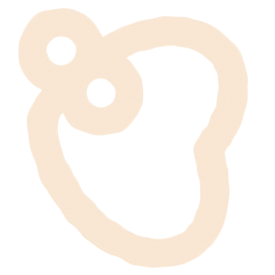
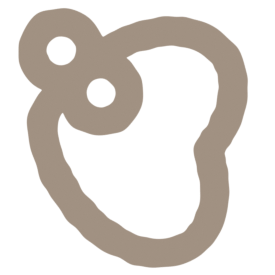
update site colors

diff --git a/scripts/aaa-style.css b/scripts/aaa-style.css
@@ -166,8 +166,8 @@ a:active {
         border-color: #a19182;
     }
     input:focus {
-        color: #a19182;
-        border-color: #a19182;
+        color: #37857f;
+        border-color: #37857f;
     }
     input:focus:invalid {
         color: #ed7c7c;
@@ -178,17 +178,17 @@ a:active {
         border-color: #cd5c5c;
     }
 
-    a, a:link, a:visited { color: #89c7cd; }
+    a, a:link, a:visited { color: #37857f; }
     a:hover, a:focus { color: #a19182; }
-    a:active { color: #89c7cd; }
+    a:active { color: #37857f; }
     #jump, #bott, #ttop {
         color: #a19182;
         background-color: #000000;
         border-color: #a19182;
     }
     #jump:focus, #bott:focus {
-        color: #89c7cd;
-        border-color: #89c7cd;
+        color: #37857f;
+        border-color: #37857f;
     }
 }
 
@@ -211,8 +211,8 @@ a:active {
 }
 @media (min-width: 662px) and (prefers-color-scheme: dark) {
     #jump:hover, #bott:hover, #ttop:hover {
-        color: #89c7cd;
-        border-color: #89c7cd;
+        color: #37857f;
+        border-color: #37857f;
     }
     #jump:active, #bott:active, #ttop:active {
         color: #a19182;

diff --git a/index.html b/index.html
@@ -1,4 +1,4 @@
-<!-- Copyright © 2021-2025, jurgfish. All rights reserved. -->
+<!-- Copyright © 2021-2026, jurgfish. All rights reserved. -->
 
 <!-- welcome to the other side <3 -->
 
@@ -25,7 +25,7 @@
             <img id="logo" src="vis/jurgfish.png" alt="jurgfish" width="55" height="55">
             <img id="logotxt" src="vis/jurgfishtxt.png" alt="<3" width="130" height="64">
             <p class="anim-queue" id="info">
-                creator of alka &amp; allias,
+                creator of island of mind,
                 an out-of-this-world
                 <a href="https://jurg.fish/alkaandallias" title="Alka &amp; Allias">adventure</a>,
 
@@ -46,7 +46,7 @@
         </div>
 
         <p class="anim-queue" id="cpr">
-            © 2025 jurgfish. All rights reserved.
+            © 2026 jurgfish. All rights reserved.
         </p>
         <div id="endspace"></div>
         <script src="scripts/home-anim.js"></script>

diff --git a/404.html b/404.html
@@ -1,4 +1,4 @@
-<!-- Copyright © 2021-2025, jurgfish. All rights reserved. -->
+<!-- Copyright © 2021-2026, jurgfish. All rights reserved. -->
 
 <!doctype html>
 <html lang="en">
@@ -74,9 +74,9 @@
                     color: #a19182;
                     background-color: #000000;
                 }
-                a, a:link, a:visited { color: #89c7cd; }
+                a, a:link, a:visited { color: #37857f; }
                 a:hover, a:focus { color: #a19182; }
-                a:active { color: #89c7cd; }
+                a:active { color: #37857f; }
             }
             @media (min-width: 662px) {
                 #hold { width: 600px; }

diff --git a/scripts/home-style.css b/scripts/home-style.css
@@ -10,7 +10,7 @@ body {
     font-family: "RobotoSlab";
     font-size: 18px;
     font-weight: 400;
-    color: #f8e6d3;
+    color: #a19182;
     background-color: #000000;
 
     margin: 0;
@@ -60,7 +60,7 @@ p {
 #endspace { height: 30px; }
 
 a, a:link, a:visited {
-    color: #89c7cd;
+    color: #37857f;
     text-decoration: underline;
 }
 a:hover, a:focus {
